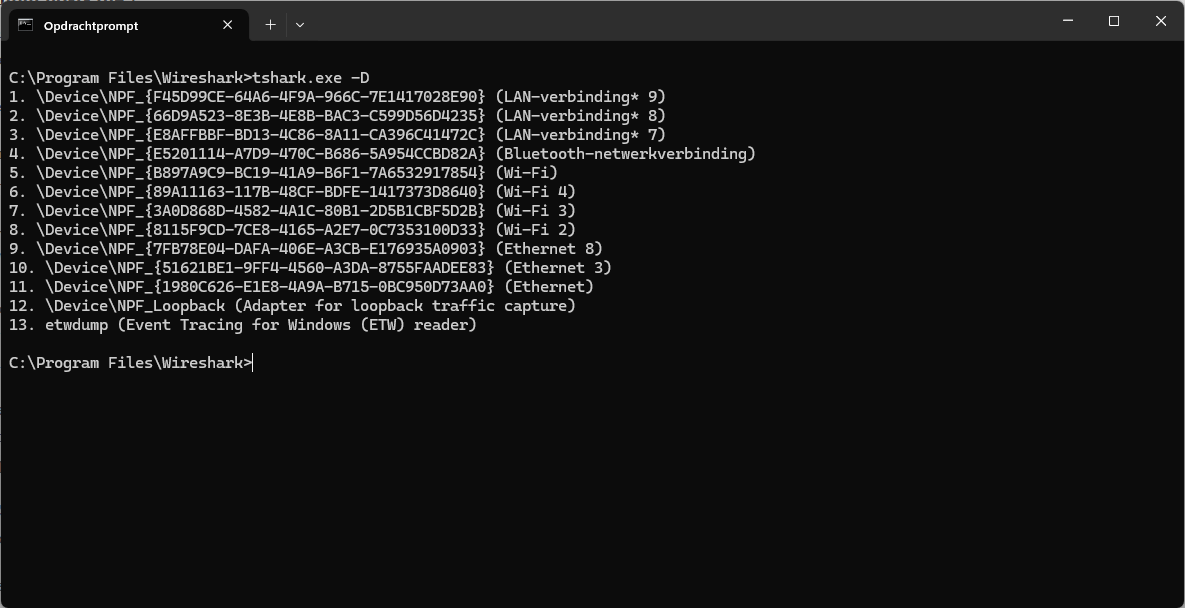
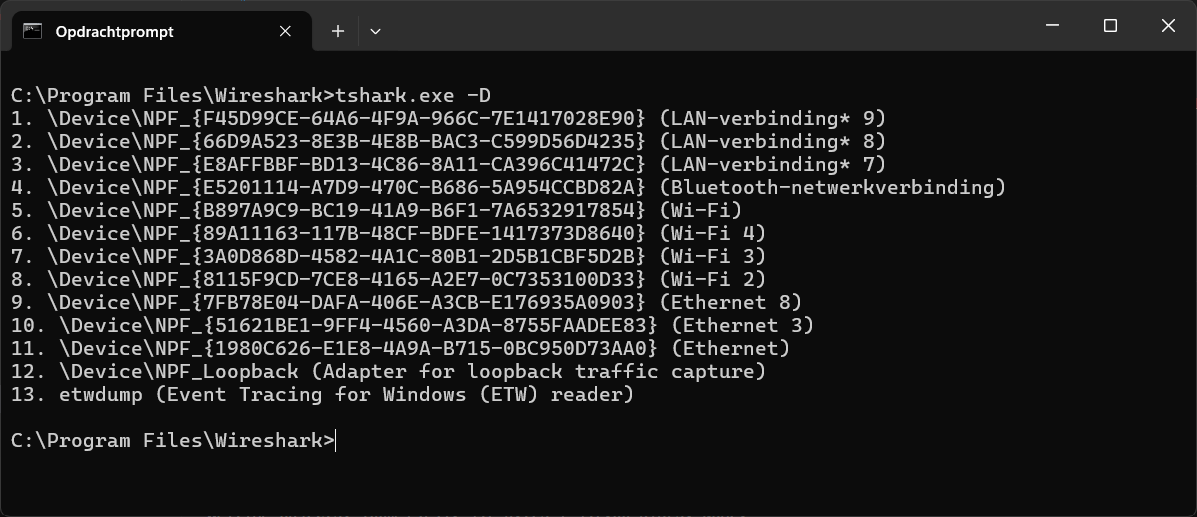
tshark demo

Changed region(s): [[0.0, 0.0, 1.0, 1.0], [0.0, 0.8356, 0.281, 0.8665]]

diff --git a/docs/wireshark/README.md b/docs/wireshark/README.md
@@ -777,9 +777,13 @@ An overview of all available interfaces can be obtained using the command `tshar
 
 ![Success](./assets/tshark1.png)
 
-Capture traffic on the Ethernet interface, automatically stopping after 5 files, and create a new file every 10 seconds using ‘demo.pcapng’ as the base name.   
+Capture traffic on the Ethernet interface, automatically stopping after 5 files, and create a new file every 10 seconds using ‘demo.pcapng’ as the base name. This is done using the following command: `tshark.exe -i 11 -a files:5 -b duration:10 -w demo.pcapng`.   
 
 ![Success](./assets/tshark2.png)
+
+A quick analysis of network traffic can be obtained using the following command: `tshark.exe -i 11 -qz io,phs` .   
+
+![Success](./assets/tshark3.png)
 
 ## 10 Other sources
 
